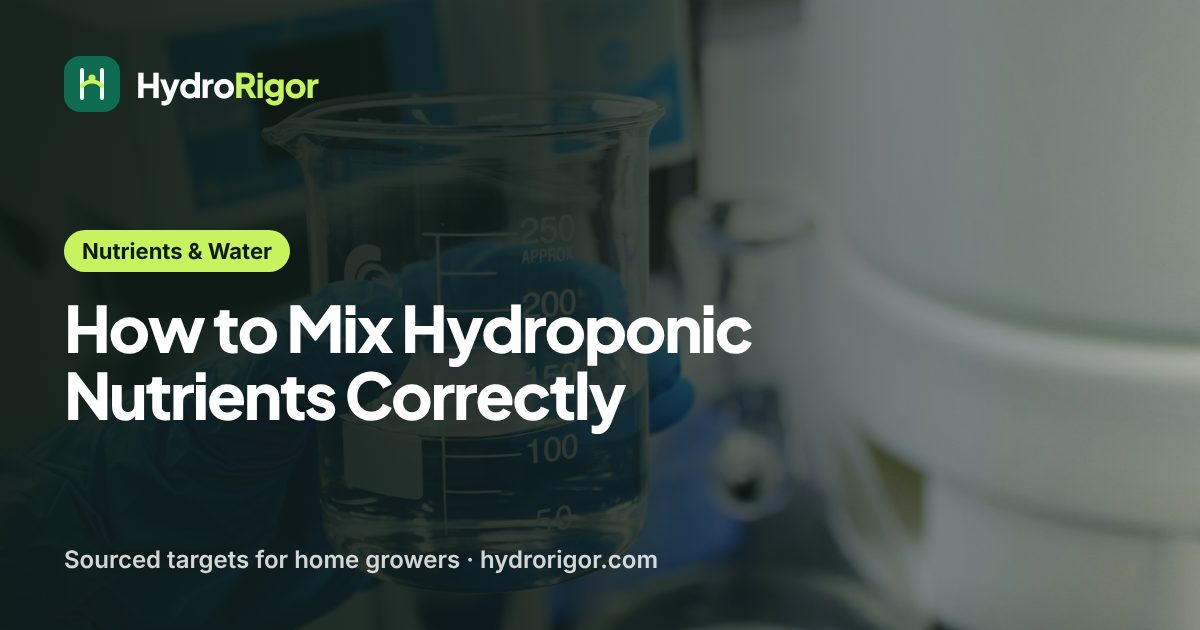
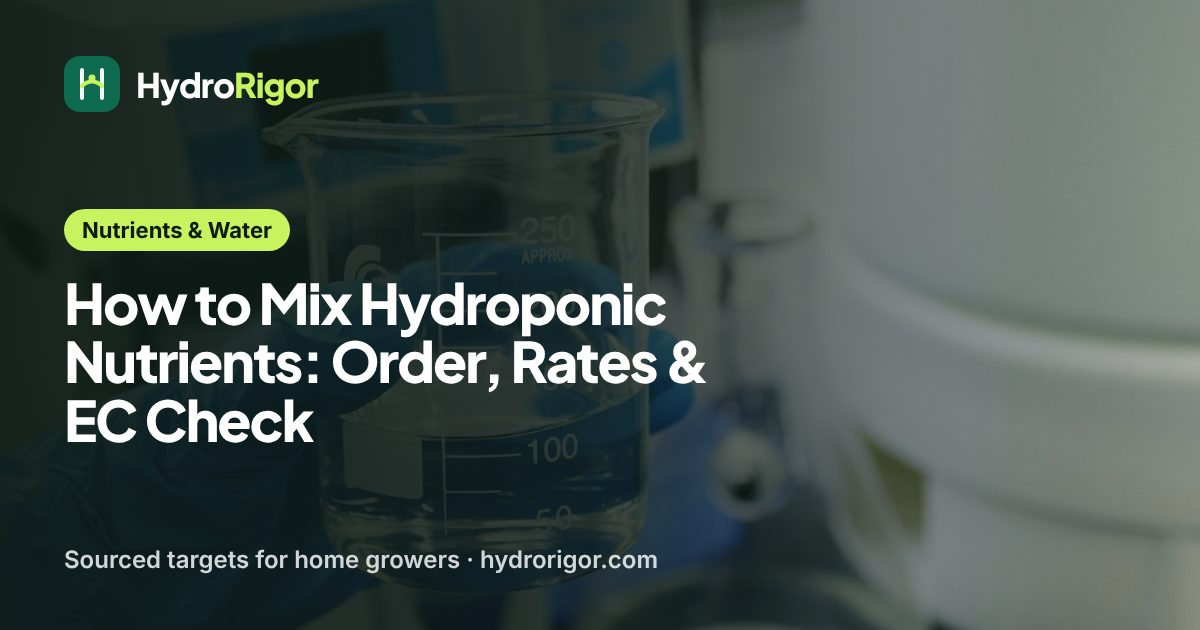
Rebuild how to mix hydroponic nutrients: order, rates and EC check
Claude-Session: https://claude.ai/code/session_011zSWQtBbGHU23zkk2SYz6C

Changed region(s): [[0.0308, 0.3317, 0.6475, 0.7238]]

diff --git a/src/data/editorial-sources/m06.ts b/src/data/editorial-sources/m06.ts
@@ -266,9 +266,9 @@ export const m06EditorialSources = [
     title: 'Hydroponics Systems: Nutrient Solution Programs and Recipes',
     publisher: 'Penn State Extension',
     url: 'https://extension.psu.edu/hydroponics-systems-nutrient-solution-programs-and-recipes',
-    accessedDate: '2026-11-06',
+    accessedDate: '2026-11-15',
     sourceType: 'university-extension',
-    locator: 'Preparation approaches grouped as fertilizer programs, recipes and complete soluble fertilizers; Fertilizer programs: tomato example with a 4-18-38 base supplemented with calcium nitrate and magnesium sulfate by variety and stage; Nutrient solution concentration and fertilizer compatibility: two stock tanks keep calcium apart from phosphates and sulfates to avoid precipitates that clog drip lines',
+    locator: 'Updated March 18, 2024. Fertilizer programs: 4-18-38 tomato base supplemented with calcium nitrate and magnesium sulfate by variety and stage. Nutrient Solution Recipes: Modified Sonneveld solution for herbs N 150, P 31, K 210, Ca 90, Mg 24 ppm; subtract what is in the water (30 ppm K in water, 210 target: add 180 ppm); a high precision scale is required for micronutrients. Complete Soluble Fertilizer Approach: lettuce might be 100 to 150 ppm N; magnesium and calcium may not be included. How to Choose Fertilizers, solubility table (g/100 mL cold water, citing Resh): calcium nitrate 121.2, potassium nitrate 13.3. Nutrient Solution Concentration and Fertilizer Compatibility: common stock concentrations 50, 100 or 200 times normal strength; two stock tanks keep calcium apart from phosphates and sulfates (calcium nitrate in one tank, 4-18-38 plus magnesium sulfate in the other) to avoid precipitates that clog drip lines. Keeping Nutrients in Solution: motor-driven propeller for large tanks, circulating pump, or air pump for small tanks',
   },
   {
     id: 'psu-plant-nutrition',
@@ -284,9 +284,9 @@ export const m06EditorialSources = [
     title: 'Electrical Conductivity and pH Guide for Hydroponics',
     publisher: 'Oklahoma State University Extension',
     url: 'https://extension.okstate.edu/fact-sheets/electrical-conductivity-and-ph-guide-for-hydroponics',
-    accessedDate: '2026-11-06',
+    accessedDate: '2026-11-15',
     sourceType: 'university-extension',
-    locator: 'HLA-6722 Table 2: tomato EC 2.0–4.0 mS/cm, pH 6.0–6.5; lettuce EC 1.2–1.8, pH 6.0–7.0; basil EC 1.0–1.6, pH 5.5–6.0; spinach EC 1.8–2.3, pH 6.0–7.0; strawberry EC 1.8–2.2, pH 6; broccoli EC 2.8–3.5, pH 6.0–6.8; kale and Swiss chard not listed; check pH and EC daily at the same time; adjust pH only after EC is in range; dilute with water if EC is high, add concentrate if low; pH adjusters; test source water for pH, EC and alkalinity; alkalinity above 75 ppm raises pH; solution temperature about 72–75 °F (22–24 °C); replace the solution completely about every two weeks; EC calibration standard 1.41 mS/cm',
+    locator: 'HLA-6722 Table 2: tomato EC 2.0–4.0 mS/cm, pH 6.0–6.5; lettuce EC 1.2–1.8, pH 6.0–7.0; basil EC 1.0–1.6, pH 5.5–6.0; spinach EC 1.8–2.3, pH 6.0–7.0; strawberry EC 1.8–2.2, pH 6; broccoli EC 2.8–3.5, pH 6.0–6.8; kale and Swiss chard not listed; check pH and EC daily at the same time; adjust pH only after EC is in range; dilute with water if EC is high, add concentrate if low; pH adjusters; test source water for pH, EC and alkalinity; alkalinity above 75 ppm raises pH; solution temperature about 72–75 °F (22–24 °C); replace the solution completely about every two weeks; EC calibration standard 1.41 mS/cm; pepper EC 0.8–1.8, pH 5.5–6.0 (Table 2); EC Management steps: base fertilizer on the manufacturer recommendation, stir and let the reading stabilize (may take a couple of minutes); pH Management: lower pH with phosphoric acid, citric acid, vinegar or pH-down slowly and wait several minutes before adding more, raise with potassium hydroxide, potassium carbonate or pH-up; calibrate pH with buffer 4, 7 or 10; alkalinity can be removed with acidic fertilizer, phosphoric or citric acid, vinegar or reverse osmosis (read 2026-11-15)',
   },
   {
     id: 'usda-organic-certification',
@@ -311,9 +311,9 @@ export const m06EditorialSources = [
     title: '4-18-38 Tomato Formula Mixing Instructions',
     publisher: 'Masterblend International',
     url: 'https://www.masterblend.com/wp-content/uploads/2022/09/Masterblend-4-18-38-Mixing-Instructions-092922.pdf',
-    accessedDate: '2026-09-12',
+    accessedDate: '2026-11-15',
     sourceType: 'manufacturer',
-    locator: 'Manufacturer mixing order and component-specific label directions',
+    locator: 'Rate table in grams (columns 4-18-38, magnesium sulfate, calcium nitrate): 1 gal 2.4/1.5/2.4; 2 gal 4.5/2.8/4.5; 10 gal 23.0/14.0/23.0; 25 gal 57.0/35.0/57.0; 50 gal 113.0/71.0/113.0; 100 gal 227.0/142.0/227.0 (no 5-gal row; no spoon measures). Steps: choose the final solution volume; dissolve 4-18-38; add magnesium sulfate and completely dissolve; add calcium nitrate and completely dissolve. Note: use half rates during initial growth until seedlings are well established. No EC, ppm or pH targets',
   },
   {
     id: 'masterblend-hydroponics',
@@ -338,9 +338,9 @@ export const m06EditorialSources = [
     title: 'FloraSeries 3-Part Feed Program',
     publisher: 'General Hydroponics',
     url: 'https://generalhydroponics.com/pages/flora-series-3-part-feed-program',
-    accessedDate: '2026-09-12',
+    accessedDate: '2026-11-15',
     sourceType: 'manufacturer',
-    locator: 'Manufacturer mixing order, separate-component warning, and feed-chart boundary',
+    locator: 'Guidance Mixing Notes: always add FloraMicro to fresh water first and mix thoroughly; add FloraGro second and FloraBloom third, mixing well between each; "Never combine concentrated FloraSeries components together undiluted"; check and adjust pH and EC/PPM after mixing. Feed charts in mL/gal by stage (not used on HydroRigor pages); no pH number given',
   },
   {
     id: 'ifas-kratky-set-and-forget',
@@ -437,9 +437,9 @@ export const m06EditorialSources = [
     title: 'Hydroponic Nutrient Solution for Optimized Greenhouse Tomato Production (HYG-1437)',
     publisher: 'The Ohio State University CFAES (M. Kroggel, C. Kubota)',
     url: 'https://cfaes.osu.edu/fact-sheet/hydroponic-nutrient-solution-optimized-greenhouse-tomato-production',
-    accessedDate: '2026-11-06',
+    accessedDate: '2026-11-15',
     sourceType: 'university-extension',
-    locator: 'HYG-1437 Table 2 growth phases by truss count; Table 3 (Jensen/UA-CEA) three-stage NO3-N 90/120/190, K 144/350/350, Ca 144/160/200 ppm; EC about 2.0 dS/m in stage 1 and closer to 2.4 in stage 3; drip pH 5.5–6.5; Ca raised in stage 3 to prevent blossom-end rot; Table 4 100X stock solutions with calcium in a separate tank; recipes standard for RO water',
+    locator: 'HYG-1437 Table 2 growth phases by truss count; Table 3 (Jensen/UA-CEA) three-stage NO3-N 90/120/190, K 144/350/350, Ca 144/160/200 ppm; EC about 2.0 dS/m in stage 1 and closer to 2.4 in stage 3; drip pH 5.5–6.5; Ca raised in stage 3 to prevent blossom-end rot; Table 4 100X stock solutions with calcium in a separate tank; recipes standard for RO water; Table 4 (100X stocks, g/L), stage 1: Tank 1 monopotassium phosphate 20.7, magnesium sulfate 61.2, potassium sulfate 20.7 (potassium nitrate 0, 22.2, 50.1 in stages 1–3); Tank 2 calcium nitrate 57.9 (78.9 in stage 3), calcium chloride 9.4, Fe 330 chelate (DTPA) 2.0; concentrates often 100 times the final dilution; the calcium portion must be separated from the other macronutrients at 100X or gypsum and phosphate precipitates form (read 2026-11-15)',
   },
   {
     id: 'uky-monitoring-ph-ec',

diff --git a/src/data/m06-content.ts b/src/data/m06-content.ts
@@ -37,7 +37,7 @@ const items = [
   [17, 'articles', 'nutrients', 'Powder vs Liquid Hydroponic Nutrients: Which Should You Buy?', 'powder-vs-liquid-hydroponic-nutrients', 'commercial research', 'hydroponic nutrients powder', 'METRIC_NOT_REVERIFIED', undefined, undefined, ['psu-nutrient-programs', 'mu-nutrient-solutions'], ['/tools/nutrient-mixing-calculator/']],
   [18, 'articles', 'nutrients', 'Hydroponic Nutrients for Vegetables: A Feeding Guide', 'hydroponic-nutrients-for-vegetables', 'transactional research', 'hydroponic nutrients vegetables', 'METRIC_NOT_REVERIFIED', undefined, undefined, ['psu-plant-nutrition', 'mu-nutrient-solutions', 'vt-system-crop-comparisons'], ['/tools/ph-ec-targets/', '/tools/nutrient-mixing-calculator/']],
   [19, 'articles', 'nutrients', 'Hydroponic Nutrients for Tomatoes: EC, pH & Feeding by Stage', 'hydroponic-nutrients-for-tomatoes', 'informational', 'hydroponic tomatoes nutrient solution', 'VERIFIED_2026-09-12', 170, 18, ['ifas-hydroponic-tomato-formulation', 'tennessee-fruiting-crops', 'ohio-state-tomato-nutrient-solution', 'psu-nutrient-programs', 'osu-ph-ec-guide', 'uky-monitoring-ph-ec', 'msstate-tomato-ph', 'msstate-tomato-fertilizer', 'msstate-blossom-end-rot', 'ifas-volusia-dwc-bucket'], ['/tools/ph-ec-targets/', '/tools/nutrient-mixing-calculator/']],
-  [20, 'articles', 'nutrients', 'How to Mix Hydroponic Nutrients Correctly', 'how-to-mix-hydroponic-nutrients', 'informational', 'mixing hydroponic nutrients', 'METRIC_NOT_REVERIFIED', undefined, undefined, ['psu-nutrient-programs', 'mu-nutrient-solutions', 'osu-ph-ec-guide'], ['/tools/nutrient-mixing-calculator/']],
+  [20, 'articles', 'nutrients', 'How to Mix Hydroponic Nutrients: Order, Rates & EC Check', 'how-to-mix-hydroponic-nutrients', 'informational', 'mixing hydroponic nutrients', 'METRIC_NOT_REVERIFIED', undefined, undefined, ['mu-nutrient-solutions', 'psu-nutrient-programs', 'osu-ph-ec-guide', 'ohio-state-tomato-nutrient-solution', 'masterblend-mixing-instructions', 'gh-floraseries-program', 'ifas-lettuce-small-systems', 'purdue-lettuce-ec-ho309', 'tennessee-fruiting-crops', 'uky-hydroponic-lettuce', 'psu-plant-nutrition', 'msu-calibrate-ph-ec'], ['/tools/nutrient-mixing-calculator/', '/tools/ph-ec-targets/']],
   [21, 'reviews', 'reviews', 'Masterblend Hydroponic Nutrients: Beginner Setup Guide', 'masterblend-hydroponic-nutrients', 'transactional research', 'masterblend hydroponic nutrients', 'METRIC_NOT_REVERIFIED', undefined, undefined, ['masterblend-mixing-instructions', 'masterblend-hydroponics'], ['/tools/nutrient-mixing-calculator/']],
   [22, 'reviews', 'reviews', 'General Hydroponics Nutrients: How the System Works', 'general-hydroponics-nutrients', 'transactional research', 'general hydroponics hydroponic nutrients', 'METRIC_NOT_REVERIFIED', undefined, undefined, ['gh-floraseries', 'gh-floraseries-program'], ['/tools/nutrient-mixing-calculator/']],
   [23, 'articles', 'best', 'Hydroponic Systems for Sale: 9 Checks Before You Buy', 'hydroponic-systems-for-sale', 'transactional research', 'hydroponic system sale', 'METRIC_NOT_REVERIFIED', undefined, undefined, ['osu-hydro-hints-overview', 'osu-hydro-hints-dwc', 'osu-hydro-hints-buckets', 'osu-hydro-hints-nft', 'osu-hydro-hints-ebb-flow', 'ifas-kratky-set-and-forget', 'uky-hydroponic-lettuce', 'purdue-supplemental-light-lettuce', 'okstate-vertical-tower-hla6724', 'osu-ph-ec-guide', 'ifas-lettuce-small-systems', 'tennessee-fruiting-crops', 'illinois-hydroponics-at-home', 'vt-system-crop-comparisons', 'touliatos-vertical-lettuce-2016', 'umass-ph-ec-pens', 'msu-calibrate-ph-ec', 'purdue-inhouse-ph-ec', 'mu-hydroponic-farming', 'uga-home-hydroponics', 'unh-home-hydroponics'], ['/tools/ph-ec-targets/', '/tools/nutrient-mixing-calculator/']],

diff --git a/.agent/state/CURRENT_HANDOFF.md b/.agent/state/CURRENT_HANDOFF.md
@@ -88,6 +88,8 @@ Updated: 2026-11-15
 Guides published by automated runs under `HydroRigor Editorial`. When Najeeb has read one
 and approves, switch its byline to `Najeeb`.
 
+- `/nutrients-water/how-to-mix-hydroponic-nutrients/` — "How to Mix Hydroponic Nutrients: Order, Rates & EC Check" (rebuild, 2026-11-15; Pinterest row `docs/marketing/pinterest/pins-how-to-mix-2026-12-04.csv`, upload by Dec 4). Direct answer (water first, one part at a time, calcium last or in its own tank, EC then pH), quick-answer table, six-step order, three ways to make a solution (Penn State), Masterblend per-gallon rate table with liters and labelled 5-gallon arithmetic, two-tank 100X stock example (Ohio State HYG-1437 Table 4), source-water limits, Oklahoma State EC and pH correction steps, ten-step batch, troubleshooting and FAQ; three new diagrams (mixing order; two stock tanks; EC by crop). Sources re-read 2026-11-15 and locators extended: Penn State programs page (verbatim check), Oklahoma State HLA-6722, Ohio State HYG-1437, Masterblend instructions, General Hydroponics FloraSeries mixing notes (order only; its stage feed charts were not used). Conflicts shown: lettuce pH (Oklahoma State 6.0–7.0 vs Kentucky 5.5–6.0), lettuce EC (UF/IFAS 1.2–1.8 vs Purdue 1.3), tomato EC (Oklahoma State 2.0–4.0 vs Tennessee 2.0–3.0), solution temperature, replacement interval. No ppm-scale conversion is given because no registered source states one. Photo kept (measuring beaker).
+
 
 - `/nutrients-water/organic-hydroponic-nutrients/` — "Organic Hydroponic Nutrients: Yields, Problems & Fixes" (rebuild, 2026-11-15; Pinterest row `docs/marketing/pinterest/pins-organic-nutrients-2026-12-02.csv`, upload by Dec 2). Direct answer with yields versus mineral nutrients from three trials (Dutch bucket lettuce about 90–91%, tower strawberries about 15% less, NFT lettuce 23.5–40.3%), the four causes (ammonium and nitrite, biofilm and oxygen, calcium and magnesium shortfall, inoculant did not help) and fixes, comparison table, nine-step setup, troubleshooting and FAQ; two new diagrams (yield chart; problems and fixes). New sources: Alneyadi et al. 2024 (the Penn State-listed study, now with figures read from the open-access PDF on 2026-11-15; the 91%/90% are labelled arithmetic), Liu et al. 2025 HortScience (from the research pack), Purdue HO-309-W. Gaps stated on the page: no organic-specific EC target, no trial of organic nutrients in DWC or Kratky, no brand comparison. A 2022 Ninth Circuit ruling upholding USDA organic certification of hydroponic operations was found (Food Dive, 2022-09-23) but left out because it is not a university source; add it if Najeeb wants a news citation. Photo kept (seedling roots in hand).
 - `/crops/hydroponic-tomato-seeds/` — "Hydroponic Tomato Seeds: Best Varieties & How to Start Them" (rebuild, 2026-11-14; Pinterest row `docs/marketing/pinterest/pins-tomato-seeds-2026-12-01.csv`, upload by Dec 1). Seed chosen by mature size (micro-dwarf, compact, determinate, indeterminate), University of Florida micro-dwarf trial table, packet codes, seed-starting steps and timeline; two new sources (UF/IFAS HS987, HortScience 2000).

diff --git a/.agent/state/CURRENT_MILESTONE.md b/.agent/state/CURRENT_MILESTONE.md
@@ -90,8 +90,8 @@ impressions in 28 days).
 20. [x] `/nutrients-water/organic-hydroponic-nutrients/` — rebuilt 2026-11-15 ("Organic Hydroponic Nutrients: Yields, Problems & Fixes"). "organic hydroponic nutrients" 390 / 18.
 21. [x] `/systems/smart-indoor-hydroponic-systems/` — rebuilt 2026-11-15 ("Smart Indoor Hydroponic Systems: Light, Crops & Upkeep"); no brands or product picks
         ("click and grow" 5,400 / 35 is the nearest brand demand; add named units only if Click & Grow approves the owner).
-22. [ ] Remaining launch-guide rebuilds, one per run: `/nutrients-water/how-to-mix-hydroponic-nutrients/`
-        ("mixing hydroponic nutrients" 140 / 19), `/nutrients-water/powder-vs-liquid-hydroponic-nutrients/`
+22. [ ] Remaining launch-guide rebuilds, one per run: ~~`/nutrients-water/how-to-mix-hydroponic-nutrients/`~~
+        (rebuilt 2026-11-15, "How to Mix Hydroponic Nutrients: Order, Rates & EC Check"; "mixing hydroponic nutrients" 140 / 19), `/nutrients-water/powder-vs-liquid-hydroponic-nutrients/`
         ("hydroponic nutrients powder" 170 / 19), `/nutrients-water/hydroponic-nutrients-for-vegetables/`
         ("hydroponic nutrients vegetables" 140 / 15), `/best/indoor-hydroponic-system-kits/`,
         `/best/hydroponic-nutrients-for-home-growers/` ("best hydroponic nutrients" 260 / 20),
